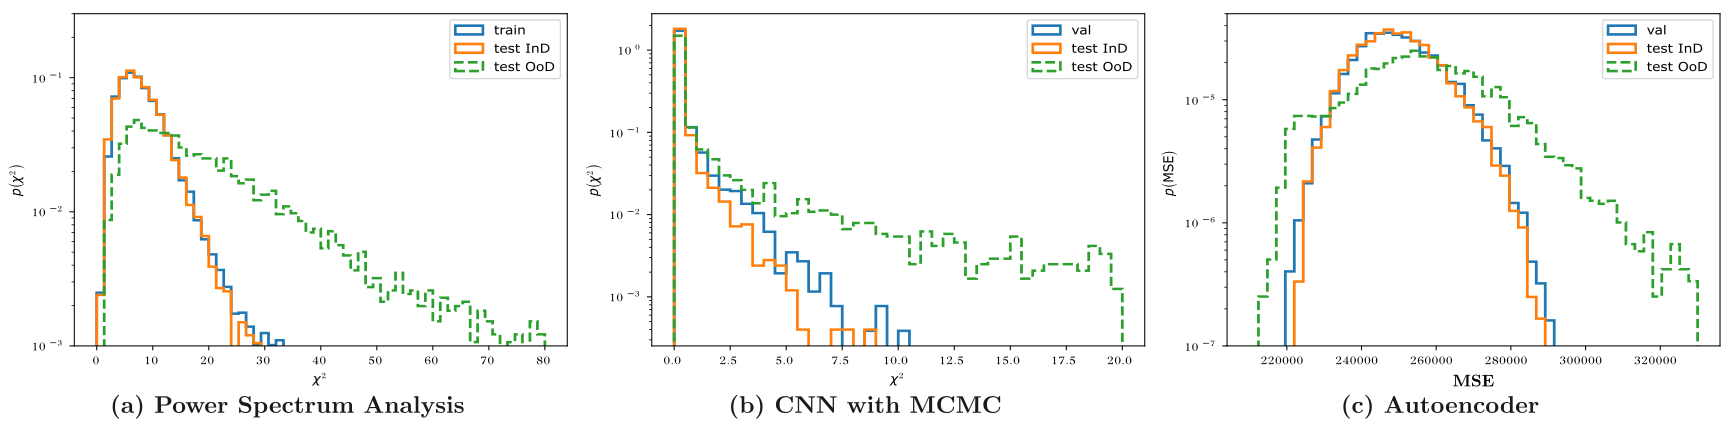
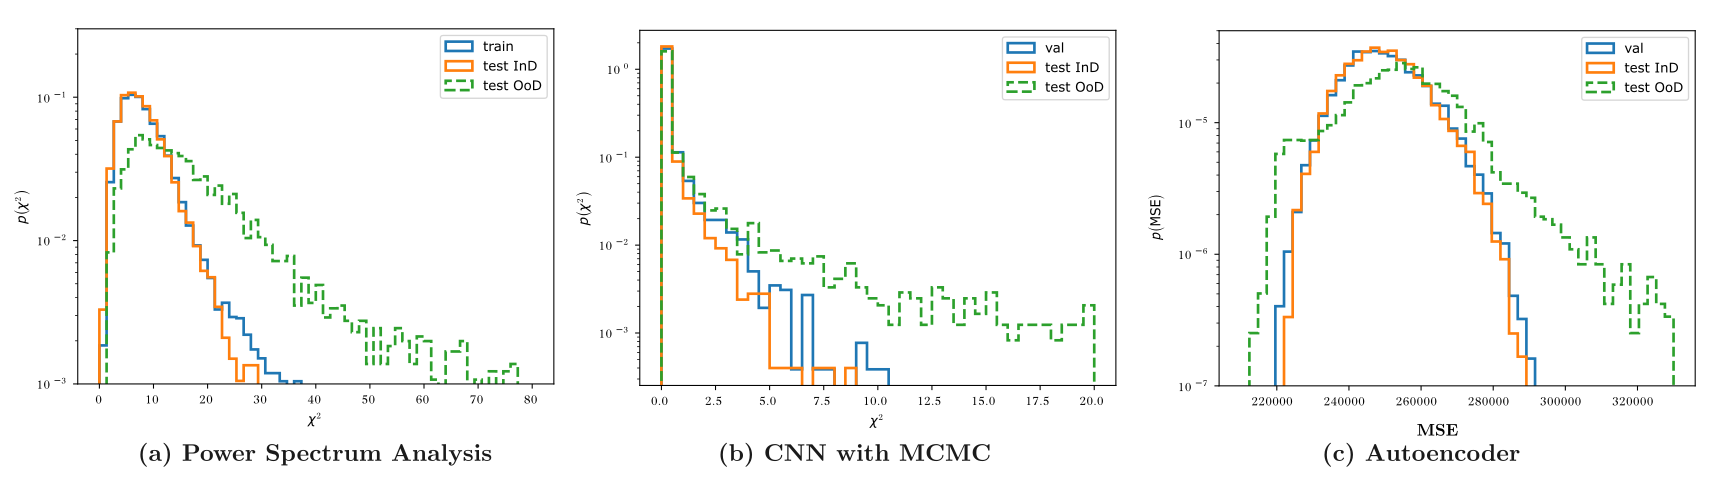
Final commit for Phase 2 launch

diff --git a/pages/Phase2/overview.md b/pages/Phase2/overview.md
@@ -1,10 +1,9 @@
 # FAIR Universe - Weak Lensing ML Uncertainty Challenge (Phase 2)
 *** 
-This **Phase 2** of Weak Lensing Machine Learning Uncertainty Challenge explores ***out-of-distribution (OoD) detection*** AI techniques for **Weak Gravitational Lensing Cosmology**.
+The **Phase 2** of Weak Lensing Machine Learning Uncertainty Challenge explores ***out-of-distribution (OoD) detection*** AI techniques for **Weak Gravitational Lensing Cosmology**.
 
-🏗️ The competition will start soon! Some information remain tentative, but **you can register now through your affiliation/company email address, and you will receive a notification when it officially start!**   <!-- ##To change -->
-<!-- 🚀 **Phase 2** of the competition HAS STARTED!  
-🚩 To enter the competition, please register through your **affiliation/institutional email**.  -->
+🚀 **Phase 2** of the competition is now open for submission until **11:59 PM October 11th 2026 (UTC)**!
+🚩 To enter the competition, please register through your **affiliation/institutional email**. 
 ***
 
 ## Introduction
@@ -28,7 +27,7 @@ Our training datasets incorporate all major known systematics and are constructe
 ***
 There are several materials regarding the FAIR Universe - Weak Lensing ML Uncertainty Challenge:
 
-* [**<ins>Training Data / Test Data (15.5 GB)</ins>**](https://www.codabench.org/datasets/download/e270eb62-844f-48f8-a815-19d5df83a592/): 
+* [**<ins>Training Data / Test Data (15.5 GB)</ins>**](https://www.codabench.org/datasets/download/71a3c810-f065-4af9-9476-a12c652ceb80/): 
 The file includes the training data, physical labels, and the public test data for this competition.
 
 * [**<ins>GitHub Repository</ins>**](https://github.com/FAIR-Universe/Cosmology_Challenge/tree/master): This repository hosts the code for testing submissions, as well as the starting kit notebooks ([<ins>Power Spectrum Analysis + MCMC</ins>](https://github.com/FAIR-Universe/Cosmology_Challenge/blob/master/Phase_2_Startingkit_WL_PSAnalysis.ipynb), [<ins>Convolutional Neural Network + MCMC</ins>](https://github.com/FAIR-Universe/Cosmology_Challenge/blob/master/Phase_2_Startingkit_WL_CNN_MCMC.ipynb), and [<ins>Autoencoder</ins>](https://github.com/FAIR-Universe/Cosmology_Challenge/blob/master/Phase_2_Startingkit_WL_AE.ipynb)). The starting kits are also available over the `Starting Kit` tab of this competition or on Google Colab.
@@ -39,8 +38,6 @@ The file includes the training data, physical labels, and the public test data f
 - Login or Create Account on [<ins>Codabench</ins>](https://www.codabench.org/) 
 
    🚩 **Please register through your affiliation/company email address.** Contact us if you have any problems with this.
-
-  🏗️  **The competition will start soon. Registering now so that you will be notified when the competition start.**     <!-- ##To change -->
 
 - Go to the `Starting Kit` tab 
 - Download the `Dummy Sample Submission`
@@ -56,8 +53,7 @@ This competition allows only result submissions. Participants can submit a resul
 
 ## Timeline
 ***
-Available soon. <!-- ##To change -->
-<!-- ![alt text](image-2.png) -->
+<img src="timeline_phase2.png" width="850"> 
 
 ## Credits
 ***

diff --git a/README.md b/README.md
@@ -5,7 +5,7 @@ This repository consists of materials for the Weak Lensing ML Uncertainty Challe
 The competition is structured into two phases. 
 - The Phase 1 of the competition has ended in November 2025. Check out more details on our [<ins>competition website</ins>](https://www.codabench.org/competitions/8934/). The final results and the top solutions developed by our participants are available on [<ins>our website</ins>](https://fair-universe.lbl.gov/WeakLensing-Uncertainty-Challenge.html) and [<ins> our NeurIPS 2025 workshop agenda</ins>](https://fair-universe.lbl.gov/WeakLensing-Uncertainty-Challenge-Workshop.html).
 
-- **The Phase 2 of the competition will start soon.**\
+- **The Phase 2 of the competition is now open for submission until October 11th 2026!**\
     Interested in joining the Phase-2 competition? Please register as a participant on our [**<ins>competition website</ins>**](https://www.codabench.org/competitions/10902/) on Codabench!
 
 
@@ -21,7 +21,7 @@ The outcomes of this competition are expected to guide the development of next-g
 
 
 ## Dataset
-Participants will work with simulated datasets mimicking observations from the [Hyper Suprime-Cam (HSC) survey](https://science.jpl.nasa.gov/projects/hyper-suprime-cam/). The weak lensing convergence maps are generated from cosmological simulations with $101$ different cosmological models (parameters: $\Omega_m$ and $S_8$) and realistic systematic effects such as the baryonic effect and photometric redshift uncertainty. These systematics are introduced in the data generation process, which we fully sampled in the training set so that the participants can marginalize over them. The parameters corresponding to these systematic models are nuisance parameters and need to be marginalized during inference. Each data is a 2D image of dimension $1424 \times 176$, corresponds to the convergence map of redshift BIN 2 of WIDE12H in HSC Y3, pixelized with a resolution of 2 arcmin. 
+Participants will work with simulated datasets mimicking observations from the [Hyper Suprime-Cam (HSC) survey](https://science.jpl.nasa.gov/projects/hyper-suprime-cam/). The weak lensing convergence maps are generated from cosmological simulations with $101$ different cosmological models (parameters: $\Omega_m$ and $S_8$) and realistic systematic effects such as the baryonic effect and photometric redshift uncertainty. These systematics are introduced in the data generation process, which we fully sampled in the training set so that the participants can marginalize over them. The parameters corresponding to these systematic models are nuisance parameters and need to be marginalized during inference. Each data is a 2D image of dimension $1424 \times 176$, corresponds to the convergence map of redshift BIN $2$ of WIDE12H in HSC Y3, pixelized with a resolution of $2$ arcmin. 
 
 The figure below shows some examples of the training data and how they are varied with different nuisance parameters and pixel-level noise.
 
@@ -33,7 +33,7 @@ The figure below shows some examples of the training data and how they are varie
 ### Phase 1: Cosmological Parameter Estimation
 Participants will develop models that:
 1. Accurately infer cosmological parameters $(\hat{\Omega}_m, \hat{S}_8)$ from the weak lensing data.
-2. Quantify the uncertainties $(\hat{\sigma}_{\Omega_m}, \hat{\sigma}_{S_8})$ via the 68% confidence intervals of the estimated cosmological parameters.
+2. Quantify the uncertainties $(\hat{\sigma}_ {\Omega_{m}}, \hat{\sigma}_ {S_{8}})$ via the $68\%$ confidence intervals of the estimated cosmological parameters.
 
 ### Phase 2: Out-of-Distribution Detection
 Some test data will be generated with different physical models (OoD), leading to some distribution shifts with respect to the test data in Phase 1. Participants will develop models that can identify test data samples inconsistent with the training distribution (OoD detection) with a continuous OoD score.

diff --git a/pages/Phase2/data.md b/pages/Phase2/data.md
@@ -8,7 +8,7 @@ These weak lensing convergence maps are generated from high-resolution cosmologi
 In addition to the cosmological signal, we also model various realistic systematic effects (distortions to the data), such as baryonic effect and photometric redshift uncertainty. These systematics are introduced in the data generation process, which we fully sampled in the training set so that the participants can marginalize over them. The parameters corresponding to these systematic models are nuisance parameters and need to be marginalized during inference.
 
 We have prepared the training data and the public test data for participants to develop their methods that will be scored on Codabench. Please download them from
-[**<ins>Training Data / Test Data (15.5 GB)</ins>**](https://www.codabench.org/datasets/download/e270eb62-844f-48f8-a815-19d5df83a592/).
+[**<ins>Training Data / Test Data (15.5 GB)</ins>**](https://www.codabench.org/datasets/download/71a3c810-f065-4af9-9476-a12c652ceb80/).
 
 In the downloaded file, you will find:
 - **`WIDE12H_bin2_2arcmin_kappa_newrealization.npy`**: The training data of this competition. It contains $101 \times 256$ realizations of noiseless convergence maps. In this competition, we refer to **in-distribution (InD)** data as any data generated using the same simulation setup and the same distributions of cosmological and physical parameters as the training data.
@@ -17,7 +17,7 @@ In the downloaded file, you will find:
 
 - **`WIDE12H_bin2_2arcmin_mask.npy`**: The mask that marks which regions of the convergence maps are included and which are excluded in the real cosmological survey.
 
-- **`label.npy`**: Although not essential for this competition, we also provide the cosmological and physical parameters used for training data generation. The cosmological and physical parameters include:
+- **`label_newrealization.npy`**: Although not essential for this competition, we also provide the cosmological and physical parameters used for training data generation. The cosmological and physical parameters include:
     - $\Omega_m$: a parameter that represents the fraction of the matter energy density in the universe. 
     - $S_8$: a parameter that quantifies the amplitude of matter fluctuations in the present-day universe.
     - $T_{\rm{AGN}}$: A baryonic physics parameter that controls how strongly AGN feedback suppresses small-scale structure.
@@ -29,5 +29,5 @@ In the downloaded file, you will find:
 <img src="image-1.png" width="400"> 
 </center><br>
 
-- **`WIDE12H_bin2_2arcmin_kappa_test_phase2_test.npy`**: 
+- **`WIDE12H_bin2_2arcmin_kappa_test_phase2_new.npy`**: 
 The public test dataset for this competition contains 10,000 noisy convergence maps. A subset of these samples is generated under alternative physical models and is therefore considered out-of-distribution (OoD), while the remaining samples are in-distribution (InD). The OoD samples are labeled as $y_i=1$, and the InD samples as $y_i=0$. However, participants are not provided with the ground-truth labels, any explicit OoD examples, or details regarding how the OoD data are generated. Participants are required to submit their predictions on the public test set to Codabench (see `Evaluation` and `Starting Kit` tabs for more details).

diff --git a/pages/Phase2/terms.md b/pages/Phase2/terms.md
@@ -32,9 +32,10 @@ To ensure proper representation and verification of your affiliation with an org
 
 ## Team Participation
 
-If you are interested in participating as a team, please read the following terms. To register your team, please sign up this competition on Codabench with **single team account** and fill out [<ins>**this form**</ins>](). <!-- ##To change -->
+If you are interested in participating as a team, please read the following terms. To register your team, please sign up this competition on Codabench with **single team account**.
+<!-- fill out [<ins>**this form**</ins>](). ##To change -->
 
-1. A team can consist of 2-10 members. All team members must be declared in advance, including their names, emails, and affiliations.
+1. A team can consist of 2-10 members. You must send your team account ID and your team members' names, emails, and affiliations to <ins>[email redacted]</ins> for team participation. 
 2. Each team must designate one member as the team leader, who will be responsible for communication and submissions.
 3. The team leader must create a Codabench account using their email, and all submissions should be made through this account only.
 4. Multiple accounts for a single team are not allowed. Any team found using multiple accounts will be disqualified.

diff --git a/pages/Phase2/evaluation.md b/pages/Phase2/evaluation.md
@@ -6,7 +6,7 @@ Participants must submit their predictions to the Codabench platform using the p
 
 Given a test sample $\boldsymbol{x}_i$, participant's model should give a continuous OoD score $t(\boldsymbol{x}_i)$ that increases monotonically with the confidence that their models predict a given sample as OoD.
 
-The figure below illustrates that, by setting a threshold over the OoD score, samples with $t(\boldsymbol{x})$ above the threshold are classified as OoD, while those below are treated as InD. As the threshold varies, the predictions will lead to different true positive rates (TPRs, correctly identifying OoD samples) and false positive rates (FPRs, misclassifying InD samples as OoD). Tracing the pairs of FPR and TPR across all thresholds naturally defines the Receiver Operating Characteristic (ROC) curve. The OoD score $t(\boldsymbol{x})$ could be, for example, any test statistic increasing monotonically with the OoD likelihood, or the $p$-value defined from the test statistics of the training data and test data. 
+The figure below illustrates that, by setting a threshold over the OoD score, samples with $t(\boldsymbol{x})$ above the threshold are classified as OoD, while those below are treated as InD. As the threshold varies, the predictions will lead to different true positive rates (TPRs, correctly identifying OoD samples) and false positive rates (FPRs, misclassifying InD samples as OoD). Tracing the pairs of FPR and TPR across all thresholds naturally defines the Receiver Operating Characteristic (ROC) curve. The OoD score $t(\boldsymbol{x})$ could be, for example, any test statistic increasing monotonically with the OoD likelihood, or the negative $p$-value defined from the test statistics of the training data and test data. 
 
  <center>
 <img src="OoD_detection.png" width="500"> 

diff --git a/pages/Phase2/starting_kit.md b/pages/Phase2/starting_kit.md
@@ -15,7 +15,7 @@
     $$
         p\text{-value}_i = \text{probability}(\chi_{\rm train~(InD)}^2 > \chi_i^2)~.
     $$
-    The $p$-value is then taken as the OoD score.
+    We then take the negative $p$-value as the OoD score.
 
 2. **Reconstruction errors with autoencoder}**
 